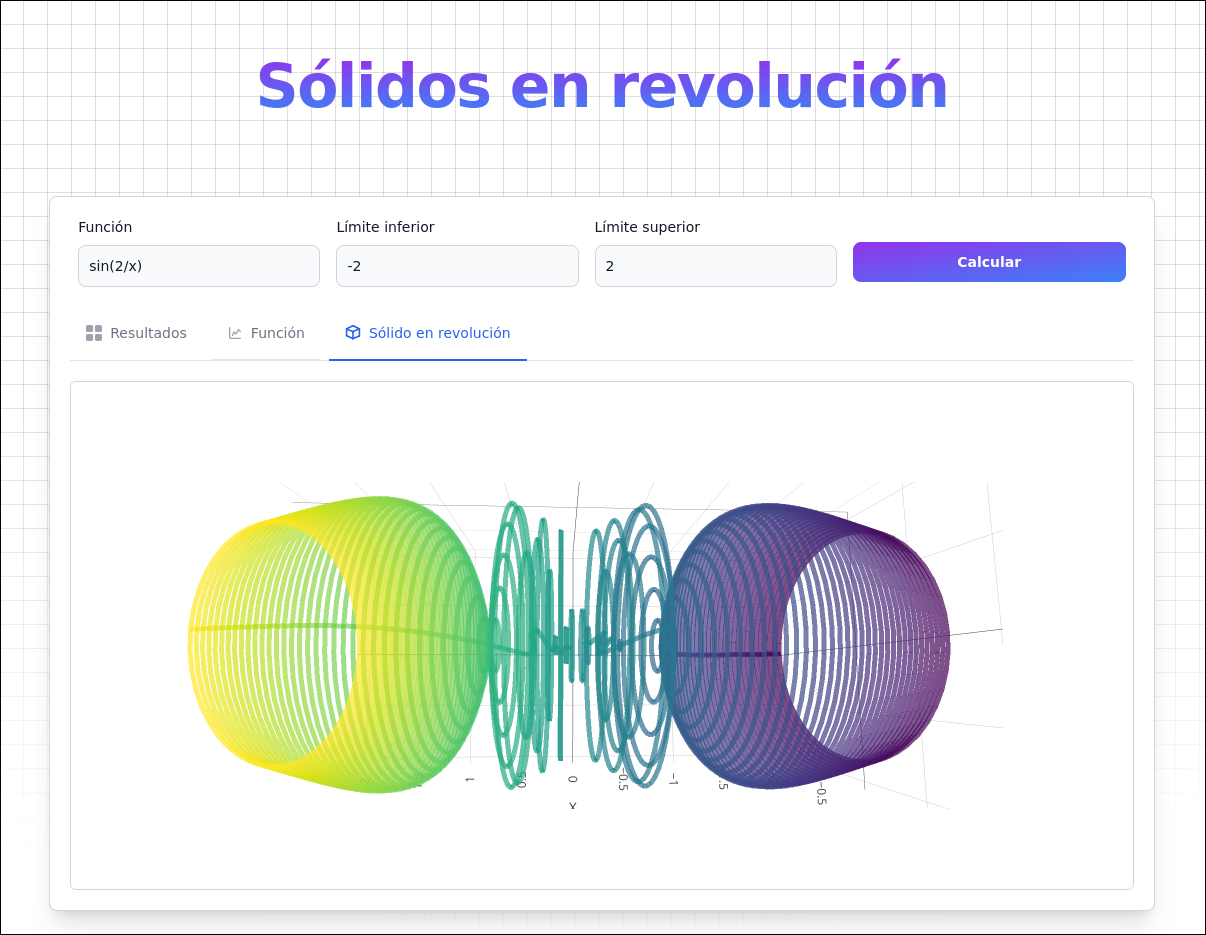
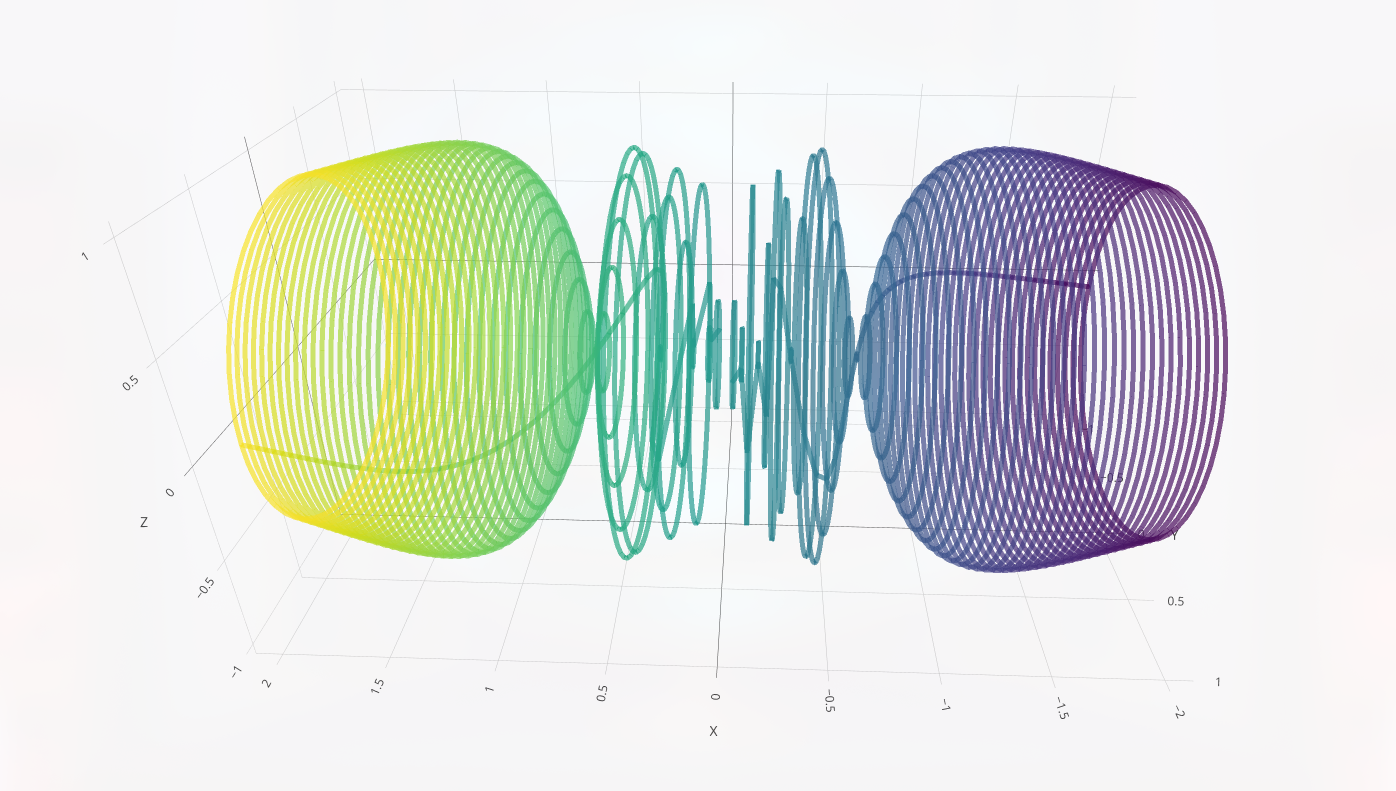
update current projects

diff --git a/src/projects.ts b/src/projects.ts
@@ -1,9 +1,11 @@
 import solidos from "./assets/solidos.png";
 import menu from "./assets/menu.png";
-import gaibu from "./assets/Gaibu.png";
+//import gaibu from "./assets/Gaibu.png";
+import smartSchool from "./assets/smartSchool.png";
 import webones from "./assets/webones.png";
 import hardcorez from "./assets/hardcorez.png";
 import mitologias from "./assets/mitologias.png";
+import salonBliss from "./assets/salonBliss.png";
 
 export interface Project {
   name: string;
@@ -54,18 +56,17 @@ export const projects: Project[] = [
     startColor: "#E2E151",
     endColor: "#E89879",
   },
-  // {
-  //   name: "Sólidos en revolución",
-  //   description:
-  //     "Aplicación web que permite visualizar la revolución de sólidos en 3D.",
-  //   category: "web",
-  //   technologies: "html tailwind js vite",
-  //   languages: "javaScript",
-  //   demo: "https://solidos-en-revolucion.alejandrosoto.site/",
-  //   image: solidos,
-  //   startColor: "#9333EA",
-  //   endColor: "#3B82F6",
-  // },
+  {
+    name: "SmartSchool",
+    description: "Un sistema de control escolar para docentes y alumnos donde ayudé a mantener el código existente y posteriormente a pasar el sistema a móviles con react native.",
+    category: "web",
+    technologies: "angular react laravel mysql",
+    languages: "javascript php",
+    demo: "https://smartschool.com.mx/",
+    image: smartSchool,
+    startColor: "#DB1333",
+    endColor: "#0A3468"
+  },
   {
     name: "Menú Durango",
     description:
@@ -75,19 +76,42 @@ export const projects: Project[] = [
     languages: "javaScript php",
     demo: "https://menudgo.com/",
     image: menu,
-    startColor: "#FFD700",
-    endColor: "#998100",
+    startColor: "#998100",
+    endColor: "#FFD700",
   },
   {
-    name: "Gaibu",
-    description:
-      "Una tienda de libretas personalizadas donde puedes crear y ver tus propios diseños en tiempo real.",
+    name: "Salón bliss",
+    description: "Servicio de agenda de citas para salones de belleza donde hice la base del proyecto.",
     category: "web",
-    technologies: "react tailwind firebase threejs",
-    languages: "javaScript",
-    demo: "https://gaibu-36d61.web.app/",
-    image: gaibu,
-    startColor: "#7745ED",
-    endColor: "#5411EB",
+    technologies: "laravel",
+    languages: "php",
+    demo: "https://salon.gmstore.com.mx/",
+    image: salonBliss,
+    startColor: "#f04adf",
+    endColor: "#D42875",
   },
+  {
+    name: "Sólidos en revolución",
+    description:
+      "Aplicación web que permite visualizar la revolución de sólidos en 3D.",
+    category: "web",
+    technologies: "html tailwind js vite",
+    languages: "javaScript",
+    demo: "https://solidos-en-revolucion.alejandrosoto.site/",
+    image: solidos,
+    startColor: "#9333EA",
+    endColor: "#3B82F6",
+  },
+  // {
+  //   name: "Gaibu",
+  //   description:
+  //     "Una tienda de libretas personalizadas donde puedes crear y ver tus propios diseños en tiempo real.",
+  //   category: "web",
+  //   technologies: "react tailwind firebase threejs",
+  //   languages: "javaScript",
+  //   demo: "https://gaibu-36d61.web.app/",
+  //   image: gaibu,
+  //   startColor: "#7745ED",
+  //   endColor: "#5411EB",
+  // },
 ];
